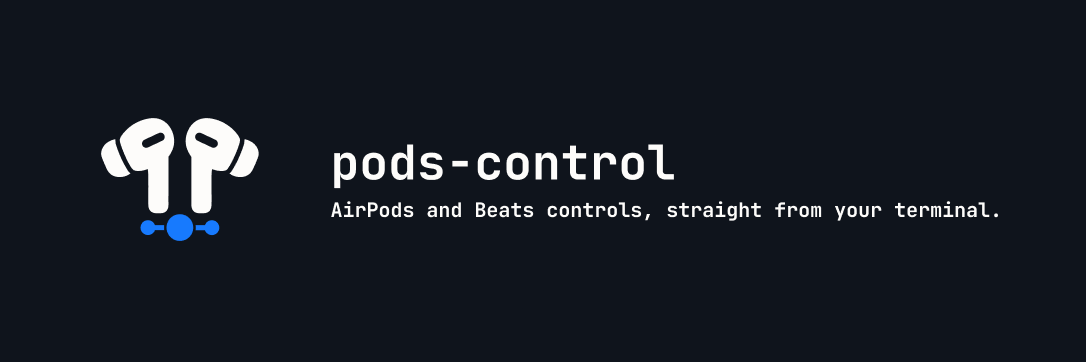
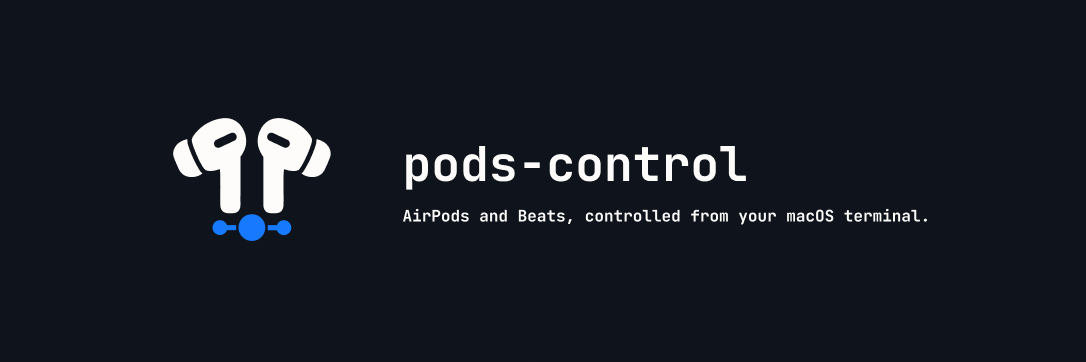
docs: align macOS AirPods and Beats tagline (#125)
## Summary

Banner subtitle is AirPods and Beats, controlled from your macOS
terminal.
Help and man NAME say macOS CLI for AirPods and Beats. README lead is
the
same facts, verb first.

Binary remains airpods-control. Banner already says pods-control.

Homebrew desc is a follow-up in raulgg/homebrew-tap.

## Testing

- `make test SWIFT_PACKAGE_EXTRA_FLAGS=--disable-sandbox`
- rumdl on the touched Markdown
- SwiftFormat lint on `Sources/AirPodsControl`
- `build/airpods-control --help` starts with `A macOS CLI for AirPods
and Beats.`

## Checklist

- [x] `make test` passes.
- [x] Behavior changes include tests.
- [x] User-facing interface changes are reflected in CLI help and the
affected documentation.
- [x] Automated tests do not write device settings.

Changed region(s): [[0.0912, 0.3039, 0.6989, 0.6685], [0.3039, 0.547, 0.9116, 0.6381]]

diff --git a/Sources/AirPodsControl/CLI.swift b/Sources/AirPodsControl/CLI.swift
@@ -67,6 +67,8 @@ struct CLIInvocation {
 struct CLIParseError: Error {}
 
 let globalHelp = """
+A macOS CLI for AirPods and Beats.
+
 Usage:
   airpods-control [--device NAME] <resource> <command> [--json] [--debug]
   airpods-control status [--device NAME] [--json] [--debug]

diff --git a/docs/cli.md b/docs/cli.md
@@ -1,6 +1,6 @@
 # CLI reference
 
-This is the complete `airpods-control` command-line reference. See the
+This is the complete `airpods-control` CLI reference. See the
 [project README](../README.md) for installation and a shorter introduction.
 
 ## Synopsis
@@ -715,7 +715,7 @@ example, this mixed scan still succeeds:
     {
       "conversationAwareness": null,
       "device": "My AirPods Pro",
-      "errors": {"conversationAwareness": "read-error"},
+      "errors": { "conversationAwareness": "read-error" },
       "isSelectedAudioInput": false,
       "isSelectedAudioOutput": true,
       "listeningMode": "transparency"
@@ -735,7 +735,25 @@ If every selected device produces only genuine read errors, the same records are
 returned with `"error":"read-error"`, `"result":"error"`, and exit `5`:
 
 ```json
-{"devices":[{"conversationAwareness":null,"device":"My AirPods Pro","errors":{"conversationAwareness":"read-error","isSelectedAudioInput":"read-error","isSelectedAudioOutput":"read-error","listeningMode":"read-error"},"isSelectedAudioInput":null,"isSelectedAudioOutput":null,"listeningMode":null}],"error":"read-error","result":"error"}
+{
+  "devices": [
+    {
+      "conversationAwareness": null,
+      "device": "My AirPods Pro",
+      "errors": {
+        "conversationAwareness": "read-error",
+        "isSelectedAudioInput": "read-error",
+        "isSelectedAudioOutput": "read-error",
+        "listeningMode": "read-error"
+      },
+      "isSelectedAudioInput": null,
+      "isSelectedAudioOutput": null,
+      "listeningMode": null
+    }
+  ],
+  "error": "read-error",
+  "result": "error"
+}
 ```
 
 With no compatible device, status JSON is exactly
@@ -812,17 +830,17 @@ cycle target.
 
 Every normal code has one command-independent meaning:
 
-| Code | Terminal reason | Meaning |
-| ---: | --- | --- |
-| `0` | `success` | The command fulfilled its primary contract without violating a safety invariant. |
-| `1` | `no-device` | No target resolved under the command's device contract. |
-| `2` | `bad-args` | Arguments are missing or malformed. |
-| `3` | `no-op` | A setter accepted the request, but the requested feature state was not verified and no required final-state invariant remains unresolved. |
-| `4` | `unsupported` | Affirmative target-specific evidence excludes the requested operation. |
-| `5` | `read-error` | A primary information read failed without producing a usable result. |
-| `6` | `unavailable` | A required provider, prerequisite, capability inventory, or control path cannot currently be established or accessed. |
-| `7` | `state-uncertain` | Side effects occurred and a required final device state cannot be confirmed. |
-| `8` | `ambiguous-device` | Multiple candidates remain for a command that requires one target. |
+| Code | Terminal reason    | Meaning                                                                                                                                   |
+| ---: | ------------------ | ----------------------------------------------------------------------------------------------------------------------------------------- |
+|  `0` | `success`          | The command fulfilled its primary contract without violating a safety invariant.                                                          |
+|  `1` | `no-device`        | No target resolved under the command's device contract.                                                                                   |
+|  `2` | `bad-args`         | Arguments are missing or malformed.                                                                                                       |
+|  `3` | `no-op`            | A setter accepted the request, but the requested feature state was not verified and no required final-state invariant remains unresolved. |
+|  `4` | `unsupported`      | Affirmative target-specific evidence excludes the requested operation.                                                                    |
+|  `5` | `read-error`       | A primary information read failed without producing a usable result.                                                                      |
+|  `6` | `unavailable`      | A required provider, prerequisite, capability inventory, or control path cannot currently be established or accessed.                     |
+|  `7` | `state-uncertain`  | Side effects occurred and a required final device state cannot be confirmed.                                                              |
+|  `8` | `ambiguous-device` | Multiple candidates remain for a command that requires one target.                                                                        |
 
 Caught Unix signals are typed separately and retain `128 + signal`. The current
 support-report write-test path catches SIGHUP (`129`), SIGINT (`130`), and
@@ -835,15 +853,15 @@ handled contract.
 These are the normal terminal reasons each command can produce after parsing;
 all commands may also produce `bad-args` during parsing.
 
-| Command | Normal terminal reasons after parsing |
-| --- | --- |
-| Help and version | `success` |
-| `listening-mode get`, `list` | `success`, `no-device`, `ambiguous-device`, `unavailable`, `read-error` |
-| `listening-mode set`, `cycle` | `success`, `no-device`, `ambiguous-device`, `no-op`, `unsupported`, `unavailable` |
-| `conversation-awareness get` | `success`, `no-device`, `ambiguous-device`, `unsupported`, `unavailable`, `read-error` |
-| `conversation-awareness set` | `success`, `no-device`, `ambiguous-device`, `no-op`, `unsupported`, `unavailable` |
-| `status` | `success`, `no-device`, `ambiguous-device`, `unavailable`, `read-error` |
-| `support-report` | `success`, `no-device`, `ambiguous-device`, `unavailable`, `state-uncertain` |
+| Command                       | Normal terminal reasons after parsing                                                  |
+| ----------------------------- | -------------------------------------------------------------------------------------- |
+| Help and version              | `success`                                                                              |
+| `listening-mode get`, `list`  | `success`, `no-device`, `ambiguous-device`, `unavailable`, `read-error`                |
+| `listening-mode set`, `cycle` | `success`, `no-device`, `ambiguous-device`, `no-op`, `unsupported`, `unavailable`      |
+| `conversation-awareness get`  | `success`, `no-device`, `ambiguous-device`, `unsupported`, `unavailable`, `read-error` |
+| `conversation-awareness set`  | `success`, `no-device`, `ambiguous-device`, `no-op`, `unsupported`, `unavailable`      |
+| `status`                      | `success`, `no-device`, `ambiguous-device`, `unavailable`, `read-error`                |
+| `support-report`              | `success`, `no-device`, `ambiguous-device`, `unavailable`, `state-uncertain`           |
 
 Only `support-report` currently adds caught-signal outcomes while running
 write tests. The table lists the normal terminal reasons reachable after
@@ -854,20 +872,20 @@ parsing.
 This consolidation is a breaking scripting-contract change even though most
 numbers stay fixed:
 
-| Previous outcome | Previous code | Consolidated outcome | Code |
-| --- | ---: | --- | ---: |
-| Successful command | `0` | `success` | `0` |
-| No target | `1` | `no-device` | `1` |
-| Ambiguous target | `1` | `ambiguous-device` | `8` |
-| Chooser declined (`cancelled`) | `1` | `ambiguous-device` | `8` |
-| Unidentified support-report product | `1` | Successful partial report | `0` |
-| Malformed arguments | `2` | `bad-args` | `2` |
-| Accepted, unverified feature write | `3` | `no-op` | `3` |
-| Support-report restoration not verified | `3` | `state-uncertain` | `7` |
-| Proven unsupported operation | `4` | `unsupported` | `4` |
-| Failed primary read | `5` | `read-error` | `5` |
-| Missing provider or control path | `6` | `unavailable` | `6` |
-| Caught signal | `128 + signal` | Caught signal | `128 + signal` |
+| Previous outcome                        |  Previous code | Consolidated outcome      |           Code |
+| --------------------------------------- | -------------: | ------------------------- | -------------: |
+| Successful command                      |            `0` | `success`                 |            `0` |
+| No target                               |            `1` | `no-device`               |            `1` |
+| Ambiguous target                        |            `1` | `ambiguous-device`        |            `8` |
+| Chooser declined (`cancelled`)          |            `1` | `ambiguous-device`        |            `8` |
+| Unidentified support-report product     |            `1` | Successful partial report |            `0` |
+| Malformed arguments                     |            `2` | `bad-args`                |            `2` |
+| Accepted, unverified feature write      |            `3` | `no-op`                   |            `3` |
+| Support-report restoration not verified |            `3` | `state-uncertain`         |            `7` |
+| Proven unsupported operation            |            `4` | `unsupported`             |            `4` |
+| Failed primary read                     |            `5` | `read-error`              |            `5` |
+| Missing provider or control path        |            `6` | `unavailable`             |            `6` |
+| Caught signal                           | `128 + signal` | Caught signal             | `128 + signal` |
 
 Individual-resource plain failures use canonical tokens. `status` retains its
 headed records and detailed failure guidance; `support-report` retains its

diff --git a/README.md b/README.md
@@ -4,7 +4,7 @@
   <picture>
     <source media="(prefers-color-scheme: dark)" srcset=".github/assets/airpods-control-banner-dark.png">
     <source media="(prefers-color-scheme: light)" srcset=".github/assets/airpods-control-banner-light.png">
-    <img alt="airpods-control: AirPods controls, straight from your terminal." src=".github/assets/airpods-control-banner-light.png" width="100%">
+    <img alt="pods-control: AirPods and Beats, controlled from your macOS terminal." src=".github/assets/airpods-control-banner-light.png" width="100%">
   </picture>
 </p>
 
@@ -17,8 +17,8 @@
   <a href="LICENSE"><img alt="License: MIT" src="https://img.shields.io/badge/license-MIT-6e5aff?style=flat-square"></a>
 </p>
 
-Control AirPods listening modes and Conversation Awareness from the command line
-without Control Center, a menu bar app, or Accessibility permission.
+Control AirPods and Beats listening modes (`off`, `transparency`, `adaptive`,
+`noise-cancellation`) and Conversation Awareness on macOS.
 
 ```console
 $ airpods-control status
@@ -33,11 +33,10 @@ $ airpods-control listening-mode set noise-cancellation
 ok
 ```
 
-`airpods-control` talks directly to private macOS audio interfaces used by
-AirPods. A successful write means the selected macOS provider reports the
-requested state within a bounded readback window; it is not a direct accessory
-acknowledgement. Each operational command performs one operation and exits
-without polling in the background or automating the UI.
+A successful write means the selected macOS provider reports the requested
+state within a bounded readback window; it is not a direct accessory
+acknowledgement. Each operational command performs one operation and exits.
+The CLI does not poll in the background or automate the UI.
 
 ## Features
 
@@ -55,7 +54,7 @@ without polling in the background or automating the UI.
 
 ## Requirements
 
-- macOS (developed and tested on Tahoe 26).
+- macOS only (developed and tested on Tahoe 26).
 - A compatible AirPods or Beats device connected over Bluetooth. Operational
   listening-mode commands can use either the selected private AV output-device
   interface or an eligible mapped Core Audio HAL output endpoint. Conversation
@@ -295,8 +294,9 @@ rules, verdict vocabulary, restoration behavior, and exit codes.
 [NoiseBuddy](https://github.com/insidegui/NoiseBuddy) by Guilherme Rambo
 documented the AVFoundation technique used by this project.
 
-`airpods-control` is an independent tool and is not endorsed by Apple. AirPods
-and AirPods Pro are trademarks of Apple Inc.
+`airpods-control` is an independent tool and is not endorsed by Apple.
+AirPods and AirPods Pro are trademarks of Apple Inc. Beats is a trademark of
+Beats Electronics, LLC.
 
 ## License
 
